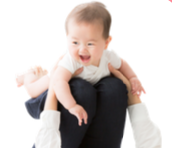
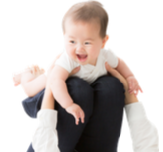
bootstrap

diff --git a/public/index.html b/public/index.html
@@ -94,7 +94,7 @@
                                 (*投稿はご自身にのみ表示されます)</p>
                         </div>
                         <div class="col-4">
-                            <img src="img/smp.png" alt="">
+                            <img src="img/data.png" alt="">
                         </div>
                     </div>
                 </div>
